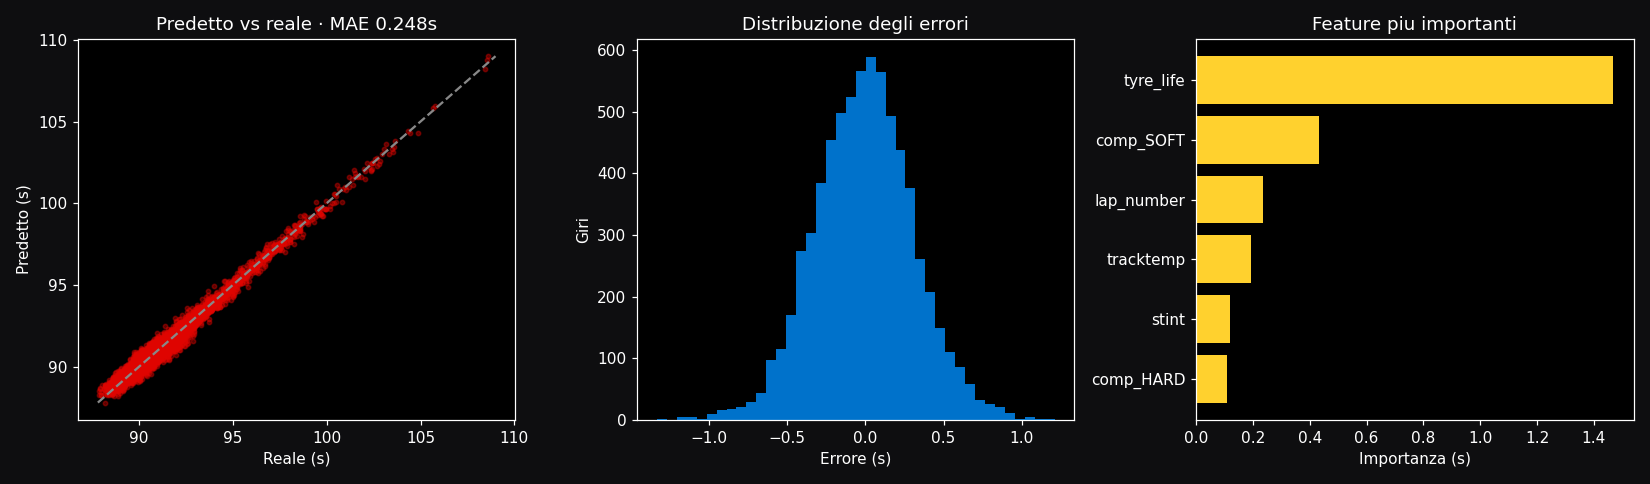
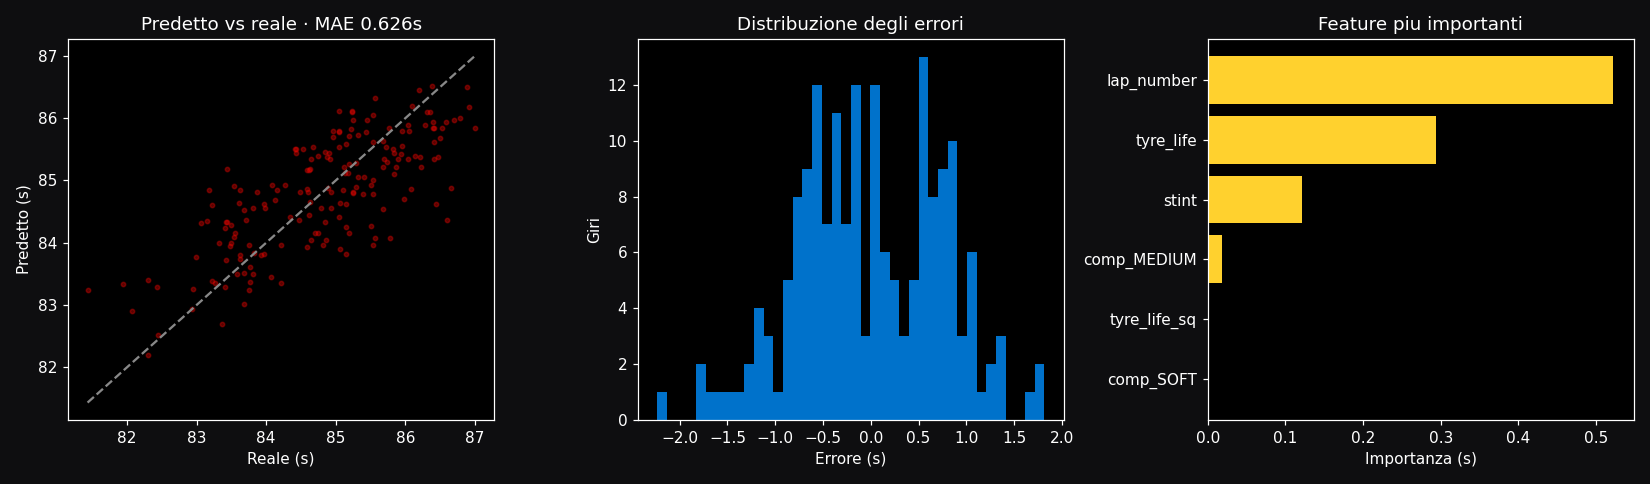
Live pit-wall console on site + turnkey real FastF1 data workflow

diff --git a/docs/index.html b/docs/index.html
@@ -161,6 +161,25 @@ footer{border-top:1px solid var(--border);padding:44px 0;text-align:center;color
 footer a{color:#fff}
 .cta-final{position:relative;text-align:center;background:linear-gradient(160deg,rgba(225,6,0,.16),rgba(122,11,255,.08));border:1px solid var(--border);border-radius:4px;padding:58px 24px;overflow:hidden}
 .cta-final::before{content:"";position:absolute;top:0;left:0;right:0;height:3px;background:linear-gradient(90deg,var(--red),transparent)}
+
+/* pit-wall console */
+.pitwall{display:grid;grid-template-columns:300px 1fr;gap:26px}
+@media(max-width:820px){.pitwall{grid-template-columns:1fr}}
+.console{position:relative;background:radial-gradient(120% 100% at 50% 0%,#141419,#0a0a0d);border:1px solid var(--border);border-radius:6px;padding:26px;overflow:hidden}
+.console::after{content:"";position:absolute;inset:0;background:repeating-linear-gradient(0deg,rgba(255,255,255,.02) 0 1px,transparent 1px 3px);pointer-events:none}
+.lamp{display:inline-flex;align-items:center;gap:10px;font-family:var(--mono);font-size:.74rem;letter-spacing:.14em;text-transform:uppercase;color:var(--muted);margin-bottom:14px}
+.lamp .b{width:12px;height:12px;border-radius:50%}
+.status{font-family:'Space Grotesk';font-weight:800;font-size:clamp(1.7rem,4vw,2.6rem);line-height:1.05;text-transform:uppercase;letter-spacing:-.01em}
+.status .sub{display:block;font-family:var(--mono);font-size:.9rem;font-weight:500;letter-spacing:.04em;margin-top:10px;color:var(--muted);text-transform:none}
+.readouts{display:grid;grid-template-columns:repeat(3,1fr);gap:12px;margin-top:22px}
+.ro{background:#0e0e13;border:1px solid var(--border);border-radius:3px;padding:12px 14px}
+.ro .l{font-size:.6rem;color:var(--muted);text-transform:uppercase;letter-spacing:.1em}
+.ro .v{font-family:var(--mono);font-weight:700;font-size:1.15rem;margin-top:3px;color:#fff}
+.wall-ctrl .control label{font-size:.7rem}
+.used-row{display:flex;gap:8px;margin-top:6px}
+.used-chip{flex:1;text-align:center;padding:8px;border-radius:3px;border:1px solid var(--border);font-family:var(--mono);font-size:.78rem;cursor:pointer;user-select:none;color:var(--muted)}
+.used-chip.on{color:#111;font-weight:700}
+
 </style>
 </head>
 <body>
@@ -170,7 +189,7 @@ footer a{color:#fff}
 <nav><div class="wrap">
   <div class="brand"><span class="dot"></span> F1 Strategy&nbsp;&amp;&nbsp;ML</div>
   <div class="nav-links">
-    <a href="#demo">Demo</a><a href="#pace">Degrado</a><a href="#metodo">Metodo</a><a href="#ml">ML</a><a href="#features">Features</a><a href="#stack">Stack</a>
+    <a href="#demo">Demo</a><a href="#pitwall">Pit-wall</a><a href="#pace">Degrado</a><a href="#metodo">Metodo</a><a href="#ml">ML</a><a href="#features">Features</a><a href="#stack">Stack</a>
   </div>
   <a class="btn btn-primary" href="https://github.com/emanuele-clc/f1-vision-analytics" target="_blank">GitHub ↗</a>
 </div></nav>
@@ -239,6 +258,38 @@ footer a{color:#fff}
     </div>
    </div>
    <p style="color:var(--muted);font-size:.82rem;margin-top:18px;border-top:1px solid var(--border);padding-top:14px">I valori di base e degrado precaricati sono <b>rappresentativi</b> di ciascun circuito. Nella pipeline Python gli stessi parametri vengono <b>stimati dai dati reali FastF1</b> della sessione scelta.</p>  </div>
+</div></section>
+
+<section id="pitwall"><div class="wrap reveal">
+  <div class="eyebrow">Pit-wall live</div>
+  <div class="h2">La decisione, giro dopo giro</div>
+  <p class="lead">Muovi il giro corrente: la console ricalcola in tempo reale se restare in pista o andare ai box, quando e con quale mescola — la stessa logica dello strumento live in Python.</p>
+  <div class="demo" style="margin-top:30px">
+   <div class="pitwall">
+    <div class="wall-ctrl">
+      <div class="control"><label>Giro corrente <b id="wv-lap">15</b></label><input type="range" id="w-lap" min="1" max="53" value="15"></div>
+      <div class="control"><label>Gomma attuale <b id="wv-comp">SOFT</b></label>
+        <select id="w-comp"><option>SOFT</option><option>MEDIUM</option><option>HARD</option></select></div>
+      <div class="control"><label>Età gomma <b id="wv-age">15</b> giri</label><input type="range" id="w-age" min="0" max="40" value="15"></div>
+      <div class="control"><label>Mescole già usate</label>
+        <div class="used-row" id="w-used">
+          <div class="used-chip" data-c="SOFT">SOFT</div>
+          <div class="used-chip" data-c="MEDIUM">MEDIUM</div>
+          <div class="used-chip" data-c="HARD">HARD</div>
+        </div>
+      </div>
+    </div>
+    <div class="console">
+      <div class="lamp"><span class="b" id="w-lamp"></span> <span id="w-lampt">PIT-WALL</span></div>
+      <div class="status" id="w-status">—<span class="sub" id="w-sub"></span></div>
+      <div class="readouts">
+        <div class="ro"><div class="l">Giri rimasti</div><div class="v" id="w-remain">—</div></div>
+        <div class="ro"><div class="l">Prossima sosta</div><div class="v" id="w-nextpit">—</div></div>
+        <div class="ro"><div class="l">Tempo residuo stim.</div><div class="v" id="w-time">—</div></div>
+      </div>
+    </div>
+   </div>
+  </div>
 </div></section>
 
 <section id="pace"><div class="wrap reveal">
@@ -431,9 +482,93 @@ function applyPreset(){
   document.getElementById('track-tag').textContent=p.name;
   setTrack(p.track);
   render();
+  const wl=document.getElementById('w-lap'); if(wl){ wl.max=p.laps; if(+wl.value>p.laps) wl.value=p.laps; renderWall(); }
 }
 $('circuit').addEventListener('change',applyPreset);
 applyPreset();
+
+/* ---- Pit-wall live ---- */
+const wUsed = new Set(['SOFT']);
+function* splitsFirst(total,parts,minRest){
+  if(parts===1){ if(total>=1) yield [total]; return; }
+  for(let f=1; f<=total-minRest*(parts-1); f++)
+    for(const r of comps(total-f,parts-1,minRest)) yield [f,...r];
+}
+function liveRecommend(total,curLap,curComp,curAge,used,mods,pit,maxStops=2,minStint=5){
+  const remaining=total-curLap; if(remaining<1) return null;
+  const keys=Object.keys(mods); let best=null;
+  for(let k=0;k<=maxStops;k++){
+    for(const parts of splitsFirst(remaining,k+1,minStint)){
+      const stay=parts[0], newLens=parts.slice(1);
+      const tc=Math.pow(keys.length,k);
+      for(let ci=0;ci<tc;ci++){
+        let x=ci; const combo=[];
+        for(let j=0;j<k;j++){combo.push(keys[x%keys.length]); x=Math.floor(x/keys.length);}
+        const seq=[curComp,...combo]; let ok=true;
+        for(let j=0;j<seq.length-1;j++) if(seq[j]===seq[j+1]) ok=false;
+        if(!ok) continue;
+        const u=new Set([...used,...seq]); if(u.size<2) continue;
+        const m=mods[curComp]; let t=0;
+        for(let a=curAge;a<curAge+stay;a++) t+=m.base+m.deg*a;
+        for(let j=0;j<combo.length;j++){const mm=mods[combo[j]],L=newLens[j];for(let a=0;a<L;a++)t+=mm.base+mm.deg*a;}
+        t+=pit*combo.length;
+        if(best===null||t<best.t) best={t,stay,newStints:combo.map((c,j)=>[c,newLens[j]])};
+      }
+    }
+  }
+  return best;
+}
+function paintChips(){
+  document.querySelectorAll('#w-used .used-chip').forEach(ch=>{
+    const c=ch.dataset.c, on=wUsed.has(c), col=(COMP.find(x=>x.k===c)||{}).color||'#666';
+    ch.classList.toggle('on',on); ch.style.background=on?col:'transparent';
+    ch.style.color=on?'#111':'#93939f';
+  });
+}
+function setStatus(main,subt,color){
+  const st=document.getElementById('w-status');
+  st.childNodes[0].nodeValue=main; st.style.color=color;
+  document.getElementById('w-sub').textContent=subt;
+}
+function renderWall(){
+  const total=+$('laps').value;
+  const lapEl=document.getElementById('w-lap'); lapEl.max=total;
+  const curLap=Math.min(+lapEl.value,total-1);
+  const curComp=document.getElementById('w-comp').value;
+  const curAge=+document.getElementById('w-age').value;
+  document.getElementById('wv-lap').textContent=curLap;
+  document.getElementById('wv-comp').textContent=curComp;
+  document.getElementById('wv-age').textContent=curAge;
+  wUsed.add(curComp); paintChips();
+  const best=liveRecommend(total,curLap,curComp,curAge,wUsed,models(),+$('pit').value);
+  const lamp=document.getElementById('w-lamp'), lampt=document.getElementById('w-lampt');
+  document.getElementById('w-remain').textContent=(total-curLap)+' giri';
+  if(!best){ setStatus('—','','#fff'); return; }
+  document.getElementById('w-time').textContent=(best.t/60).toFixed(2)+' min';
+  if(best.newStints.length===0){
+    lamp.style.background='var(--green)'; lampt.textContent='TRACK CLEAR';
+    setStatus('STAY OUT','Porta la gomma fino alla bandiera a scacchi','var(--green)');
+    document.getElementById('w-nextpit').textContent='—';
+  } else if(best.stay<=1){
+    lamp.style.background='var(--red)'; lampt.textContent='BOX THIS LAP';
+    setStatus('BOX · BOX','Monta '+best.newStints[0][0]+' adesso','#ff5b54');
+    document.getElementById('w-nextpit').textContent='ORA → '+best.newStints[0][0];
+  } else {
+    lamp.style.background='var(--medium)'; lampt.textContent='HOLD';
+    const pl=curLap+best.stay;
+    setStatus('STAY OUT · '+best.stay+' GIRI','Poi box al giro '+pl+' → '+best.newStints[0][0],'var(--medium)');
+    document.getElementById('w-nextpit').textContent='Giro '+pl+' → '+best.newStints[0][0];
+  }
+}
+['w-lap','w-age'].forEach(id=>document.getElementById(id).addEventListener('input',renderWall));
+document.getElementById('w-comp').addEventListener('change',renderWall);
+document.querySelectorAll('#w-used .used-chip').forEach(ch=>ch.addEventListener('click',()=>{
+  const c=ch.dataset.c;
+  if(c===document.getElementById('w-comp').value) return; // la gomma attuale resta usata
+  if(wUsed.has(c)) wUsed.delete(c); else wUsed.add(c);
+  renderWall();
+}));
+renderWall();
 
 // degradation chart
 const mods=models();

diff --git a/scripts/fetch_data.py b/scripts/fetch_data.py
@@ -1,0 +1,40 @@
+"""CLI: scarica una sessione reale via FastF1 e la salva in CSV (una volta sola).
+
+Dopo il download, gli altri script possono lavorare sul CSV anche offline (--csv).
+Richiede rete alla prima esecuzione.
+
+Esempio:
+    python scripts/fetch_data.py --year 2024 --gp "Monza" --session R
+"""
+from __future__ import annotations
+
+import argparse
+import sys
+from pathlib import Path
+
+sys.path.insert(0, str(Path(__file__).resolve().parents[1] / "src"))
+
+from f1va import data as f1data  # noqa: E402
+
+
+def main() -> None:
+    ap = argparse.ArgumentParser()
+    ap.add_argument("--year", type=int, required=True)
+    ap.add_argument("--gp", required=True)
+    ap.add_argument("--session", default="R")
+    ap.add_argument("--out", default=None)
+    args = ap.parse_args()
+
+    ses = f1data.load_session(args.year, args.gp, args.session)
+    df = f1data.laps_dataframe(ses)
+    out = args.out or f"data/{args.year}_{args.gp.replace(' ', '')}_{args.session}.csv"
+    Path(out).parent.mkdir(parents=True, exist_ok=True)
+    df.to_csv(out, index=False)
+    print(f"Salvati {len(df)} giri in {out}")
+    print("Ora puoi usarlo offline, es.:")
+    print(f"  python scripts/train_models.py --csv {out} --tune")
+    print(f"  python scripts/optimize_strategy.py --csv {out} --laps {int(df['LapNumber'].max())}")
+
+
+if __name__ == "__main__":
+    main()

diff --git a/scripts/optimize_strategy.py b/scripts/optimize_strategy.py
@@ -17,16 +17,20 @@ from f1va import features, strategy  # noqa: E402
 
 def main() -> None:
     ap = argparse.ArgumentParser()
-    ap.add_argument("--year", type=int, required=True)
-    ap.add_argument("--gp", required=True)
+    ap.add_argument("--csv", default=None, help="usa un CSV reale (da fetch_data.py)")
+    ap.add_argument("--year", type=int, default=2024)
+    ap.add_argument("--gp", default="Monza")
     ap.add_argument("--laps", type=int, required=True)
     ap.add_argument("--max-stops", type=int, default=2)
     ap.add_argument("--fuel-correct", action="store_true",
                     help="separa il degrado gomma dall'effetto carburante")
     args = ap.parse_args()
 
-    ses = f1data.load_session(args.year, args.gp, "R")
-    laps = f1data.quicklaps(f1data.laps_dataframe(ses))
+    if args.csv:
+        laps = f1data.quicklaps(f1data.load_laps_csv(args.csv))
+    else:
+        ses = f1data.load_session(args.year, args.gp, "R")
+        laps = f1data.quicklaps(f1data.laps_dataframe(ses))
     deg = (features.fuel_corrected_degradation(laps) if args.fuel_correct
            else features.degradation_table(laps))
     print("Degrado stimato:\n", deg.to_string(index=False))

diff --git a/scripts/live_strategy.py b/scripts/live_strategy.py
@@ -20,6 +20,10 @@ from f1va.live import RaceState, recommend  # noqa: E402
 
 
 def get_tyre_models(args):
+    if args.csv:
+        from f1va import data as f1data
+        laps = f1data.quicklaps(f1data.load_laps_csv(args.csv))
+        return strategy.fit_tyre_models(features.fuel_corrected_degradation(laps))
     if args.synthetic or (args.year is None):
         from f1va import synthetic
         laps = synthetic.generate_race(n_drivers=20, laps=args.laps, seed=0)
@@ -33,6 +37,7 @@ def get_tyre_models(args):
 def main() -> None:
     ap = argparse.ArgumentParser()
     ap.add_argument("--synthetic", action="store_true")
+    ap.add_argument("--csv", default=None, help="usa un CSV reale (da fetch_data.py)")
     ap.add_argument("--year", type=int, default=None)
     ap.add_argument("--gp", default="Monza")
     ap.add_argument("--laps", type=int, default=53)

diff --git a/scripts/train_models.py b/scripts/train_models.py
@@ -25,6 +25,10 @@ from f1va import features, models  # noqa: E402
 
 
 def get_laps(args):
+    if args.csv:
+        from f1va import data as f1data
+        print(f"Dati: CSV {args.csv}")
+        return f1data.quicklaps(f1data.load_laps_csv(args.csv))
     if args.synthetic:
         from f1va import synthetic
         print(f"Dati: stagione sintetica ({args.races} gare, offline)")
@@ -39,6 +43,7 @@ def get_laps(args):
 def main() -> None:
     ap = argparse.ArgumentParser()
     ap.add_argument("--synthetic", action="store_true")
+    ap.add_argument("--csv", default=None, help="usa un CSV reale (da fetch_data.py)")
     ap.add_argument("--tune", action="store_true", help="ricerca iperparametri (piu lenta)")
     ap.add_argument("--heavy", action="store_true",
                     help="training rigoroso: dataset ampio, ricerca estesa, curva di apprendimento, ensemble")

diff --git a/src/f1va/data.py b/src/f1va/data.py
@@ -52,3 +52,8 @@ def quicklaps(df: pd.DataFrame, threshold: float = 1.07) -> pd.DataFrame:
         return clean
     best = clean["laptime_s"].min()
     return clean[clean["laptime_s"] <= best * threshold].reset_index(drop=True)
+
+
+def load_laps_csv(path: str) -> pd.DataFrame:
+    """Rilegge un CSV di giri salvato da scripts/fetch_data.py."""
+    return pd.read_csv(path)

diff --git a/scripts/simulate_race.py b/scripts/simulate_race.py
@@ -20,6 +20,9 @@ from f1va.montecarlo import RaceConditions, optimize_mc  # noqa: E402
 
 
 def get_deg(args):
+    if args.csv:
+        from f1va import data as f1data
+        return features.fuel_corrected_degradation(f1data.quicklaps(f1data.load_laps_csv(args.csv)))
     if args.synthetic:
         from f1va import synthetic
         laps = synthetic.generate_race(n_drivers=20, laps=args.laps, seed=0)
@@ -33,6 +36,7 @@ def get_deg(args):
 def main() -> None:
     ap = argparse.ArgumentParser()
     ap.add_argument("--synthetic", action="store_true")
+    ap.add_argument("--csv", default=None, help="usa un CSV reale (da fetch_data.py)")
     ap.add_argument("--year", type=int, default=2024)
     ap.add_argument("--gp", default="Monza")
     ap.add_argument("--laps", type=int, default=53)

diff --git a/README.md b/README.md
@@ -63,6 +63,24 @@ L'importanza delle feature conferma la fisica attesa: eta gomma, poi mescola, ca
 > `python scripts/train_models.py --synthetic --heavy` (rigoroso: dataset ampio, ricerca
 > iperparametri estesa, curva di apprendimento, ensemble — alcuni minuti).
 
+## Dati reali FastF1
+
+Tutto funziona offline con dati sintetici, ma è pensato per i **dati reali**. Sul tuo PC con
+rete, scarica una sessione una volta sola e poi lavora sul CSV (anche offline):
+
+```bash
+# 1) scarica e salva la gara reale (richiede rete, solo la prima volta)
+python scripts/fetch_data.py --year 2024 --gp "Monza" --session R
+
+# 2) usa i dati reali in tutti gli strumenti
+python scripts/train_models.py     --csv data/2024_Monza_R.csv --tune
+python scripts/optimize_strategy.py --csv data/2024_Monza_R.csv --laps 53
+python scripts/simulate_race.py     --csv data/2024_Monza_R.csv --sc-prob 0.4
+python scripts/live_strategy.py     --csv data/2024_Monza_R.csv --start SOFT
+```
+
+La dashboard Streamlit carica direttamente le sessioni reali dalla barra laterale.
+
 ## Struttura
 
 ```